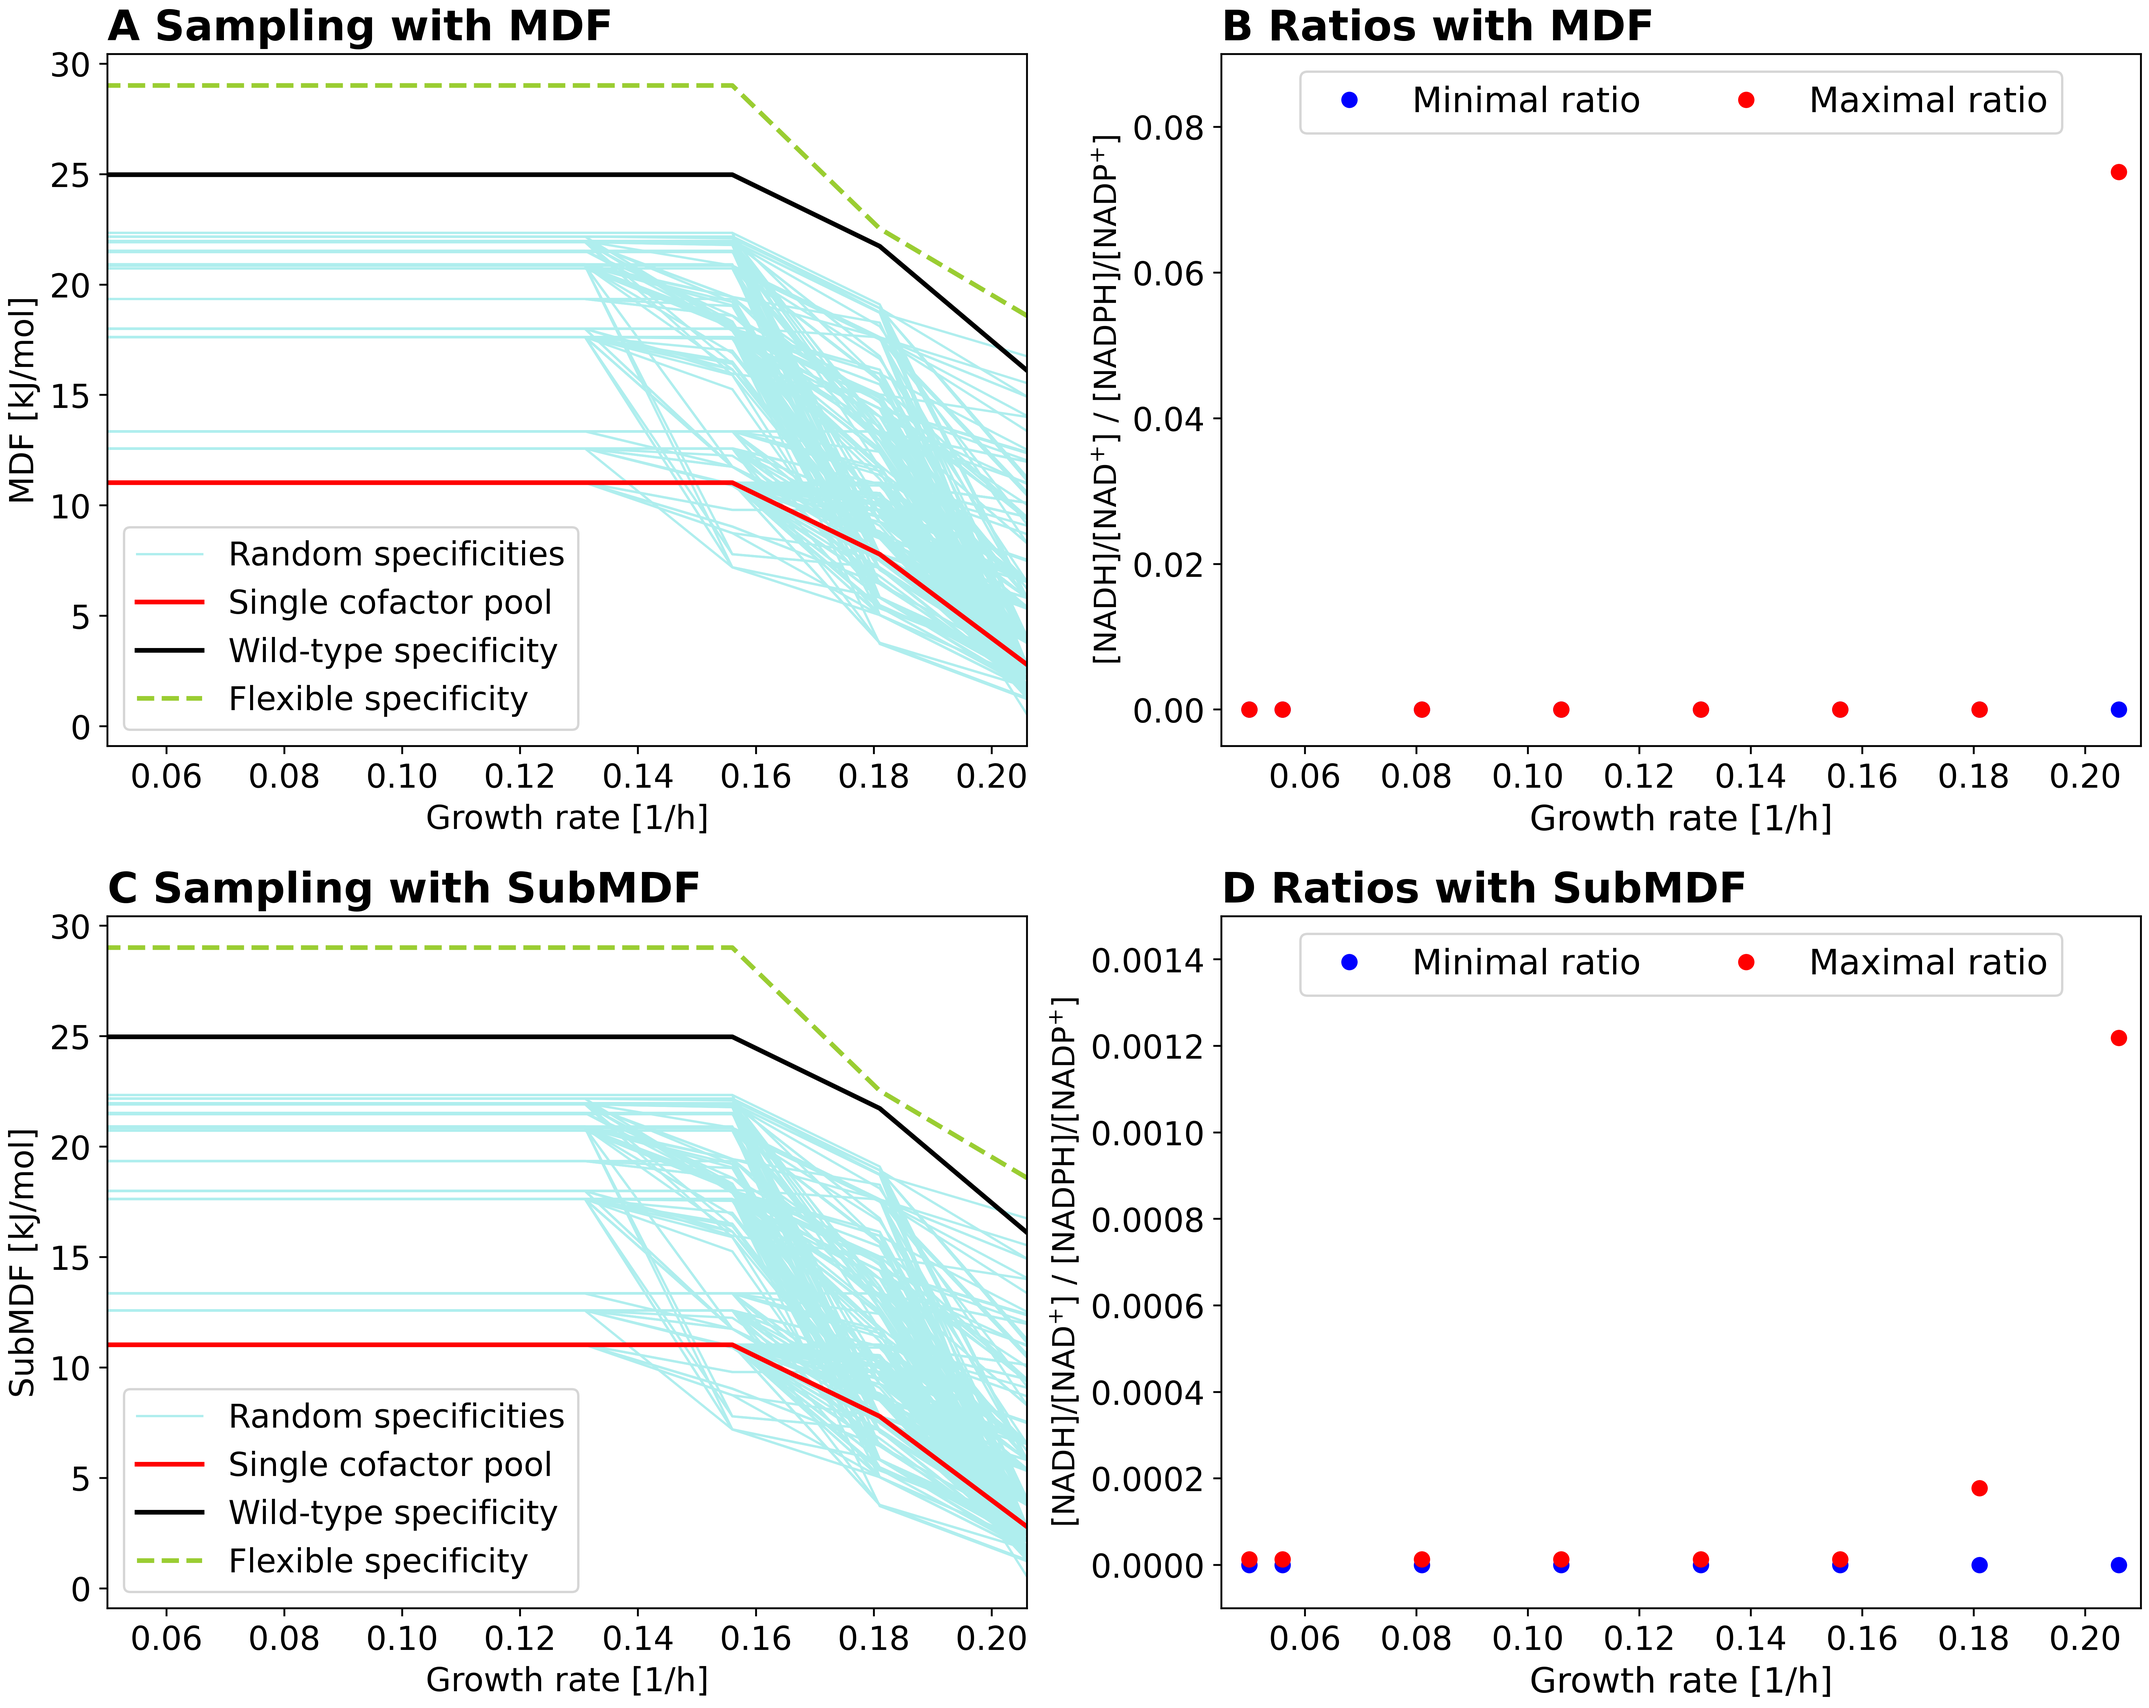
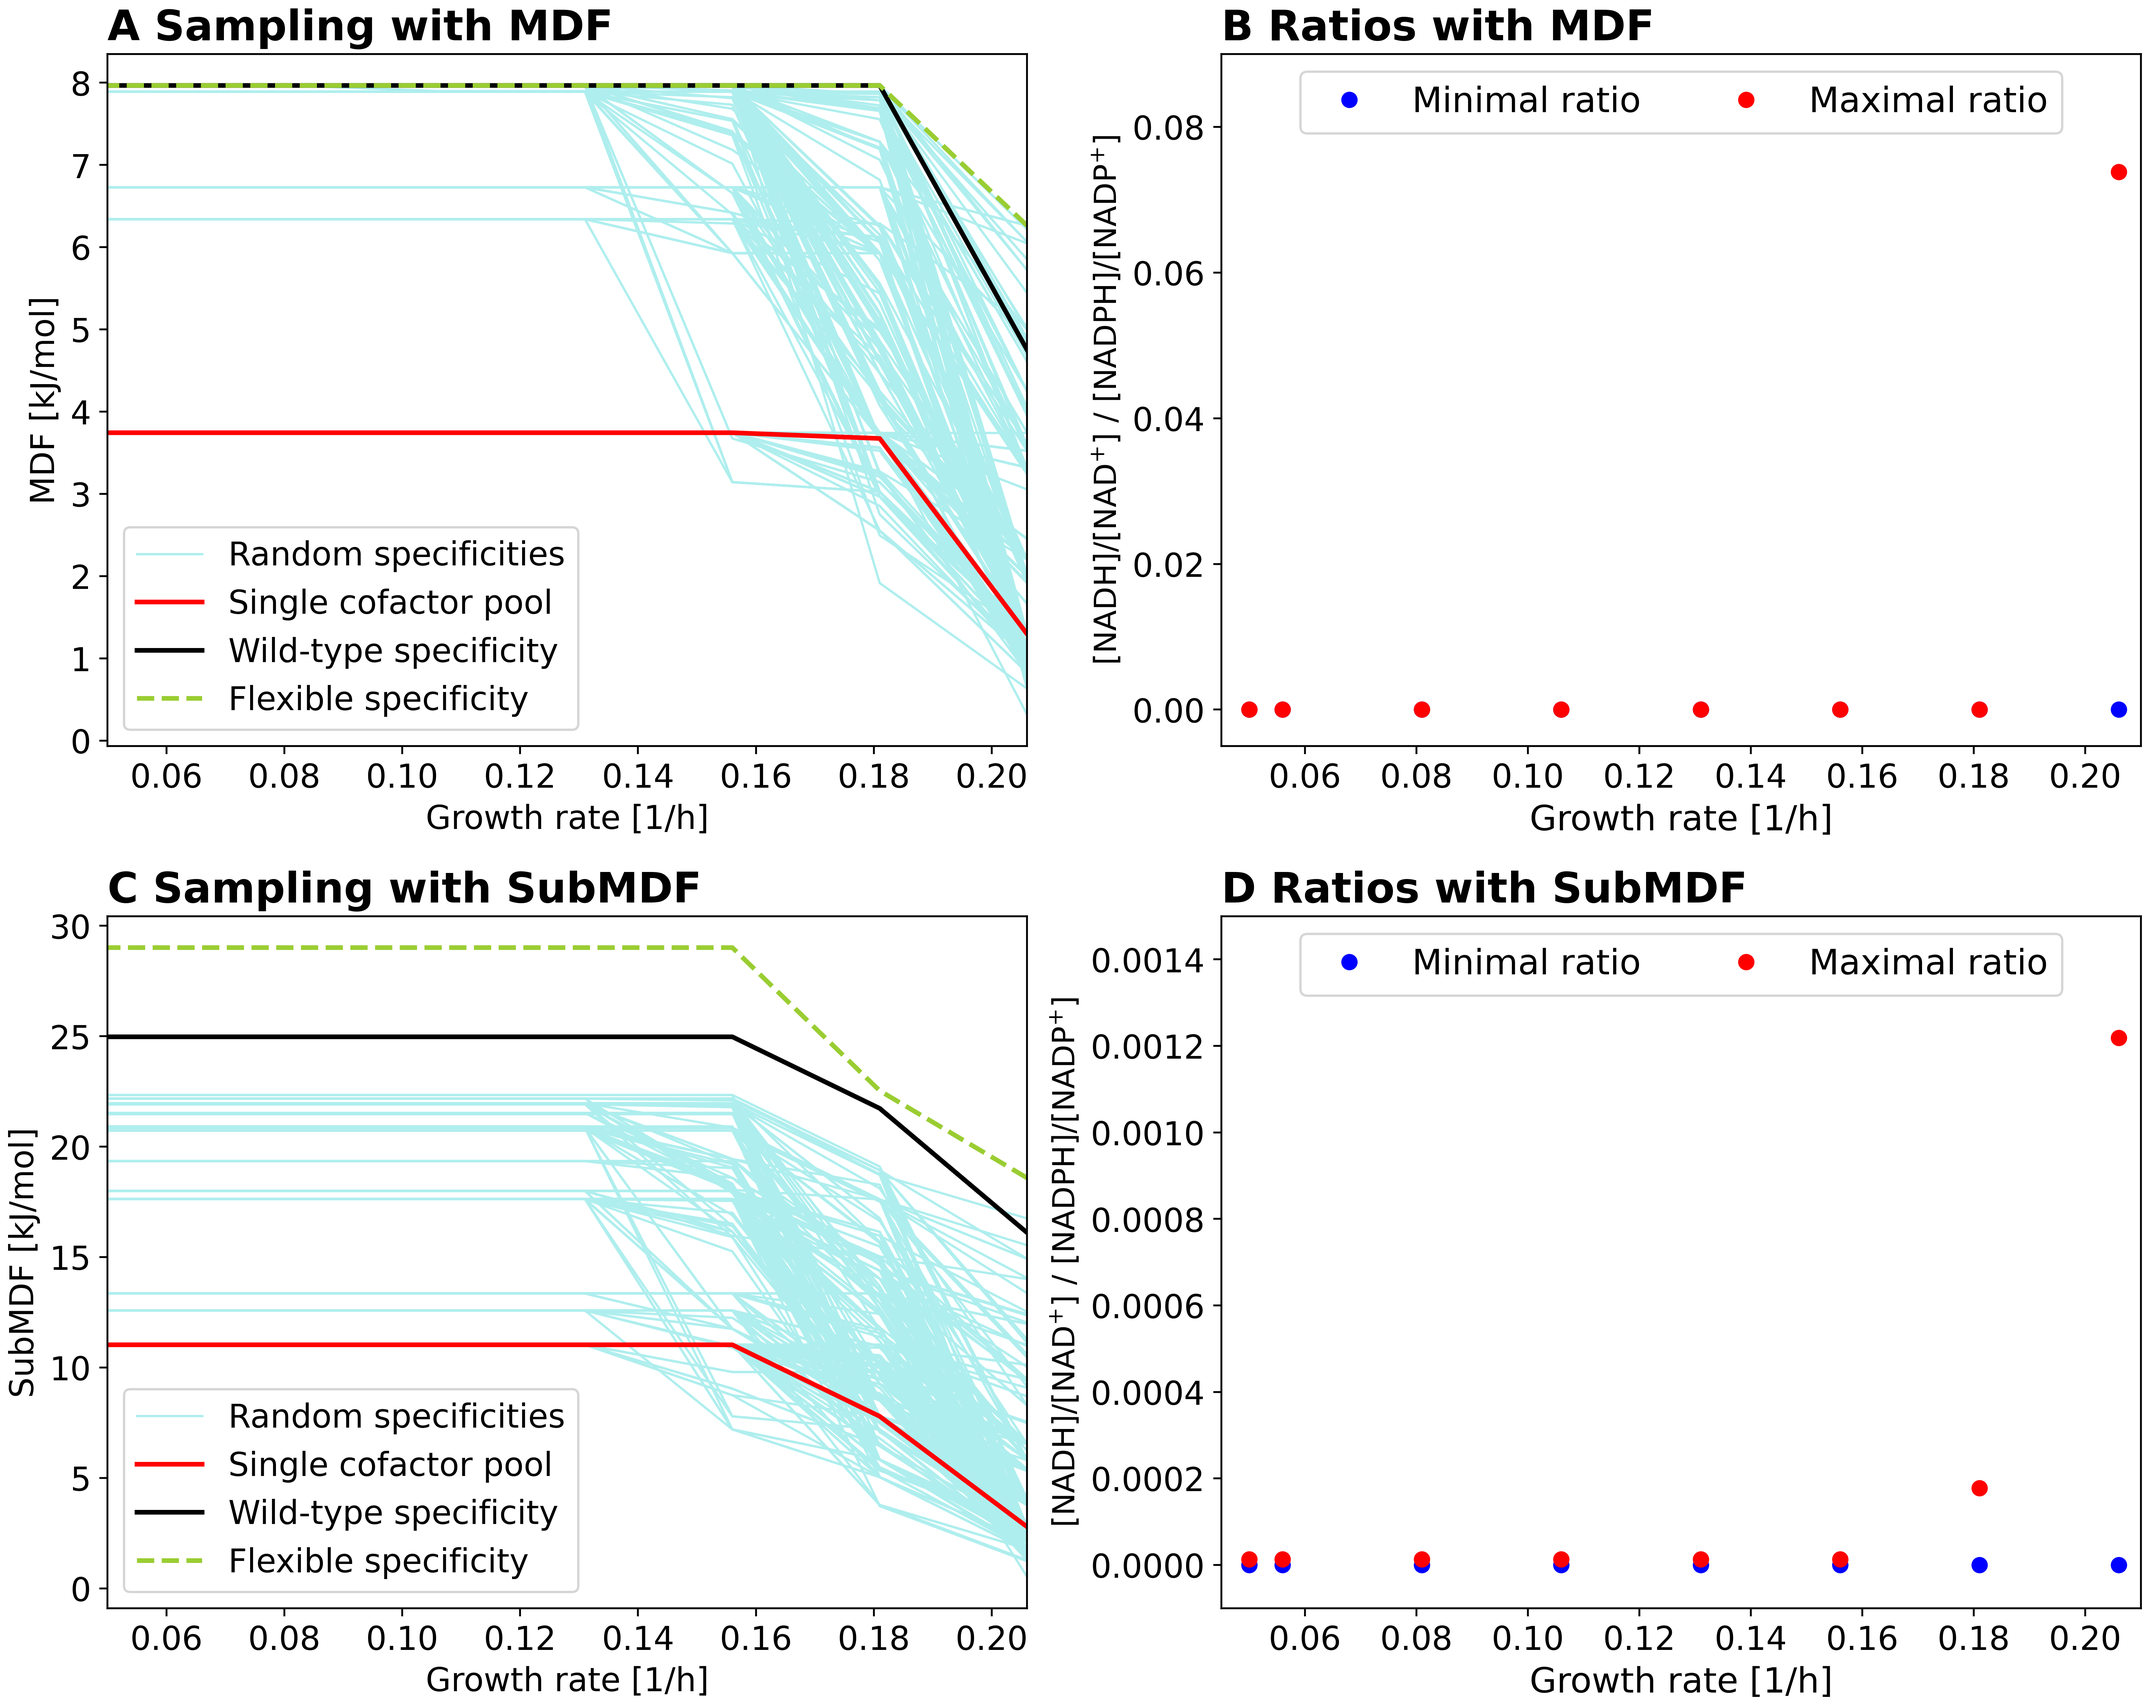
More and fixed analyses and figures

Changed region(s): [[0.0, 0.0311, 0.4999, 0.4038], [0.1562, 0.0311, 0.2187, 0.0621], [0.0312, 0.0311, 0.0625, 0.0621]]

diff --git a/cosa_create_special_aerobic_figures.py b/cosa_create_special_aerobic_figures.py
@@ -140,7 +140,6 @@ def create_acetate_figure():
     ratio_ratio_test_data_aerobic = json_load("cosa/results_aerobic_acetate/ratio_ratio_test_data.json")
     concentration = "STANDARDCONC"
     output_path = "./cosa/acetate_figure.png"
-    table_path = f"cosa/results_aerobic_acetate/optsubmdf_table_{concentration}.csv"
     pad = 5.25
 
     fig, axs = plt.subplots(nrows=2, ncols=2, dpi=500, figsize=(14, 11)) #sharex=True, figsize=(50, 25), dpi=120, facecolor="white")
@@ -151,6 +150,7 @@ def create_acetate_figure():
             xpos = 1
         else:
             xpos = 0
+        table_path = f"cosa/results_aerobic_acetate/{target.lower()}_table_{concentration}.csv"
 
         figurename_tuple = ("aerobic", f"2C_NADH_to_NAD___to___NADPH_to_nadp_{target}_{concentration}.jpg")
         ########################################################

diff --git a/cosa_minimal_changes_test.py b/cosa_minimal_changes_test.py
@@ -29,8 +29,13 @@ def cosa_minimal_changes_test(anaerobic: bool, disallowed_changed_reaction: str=
     figures_path = f"./cosa/results{suffix}/figures/"
     ensure_folder_existence(figures_path)
 
+    if c_source == "glucose":
+        concentrations = ("PAPERCONCS", "STANDARDCONCS")
+    else:
+        concentrations = ("STANDARDCONCS",)
+
     report = ""
-    for concentrations in ("PAPERCONCS", "STANDARDCONCS"):
+    for concentrations in concentrations:
         print(f"=CONCENTRATION RANGES: {concentrations}=")
         report += f"=CONCENTRATION RANGES: {concentrations}=\n"
 
